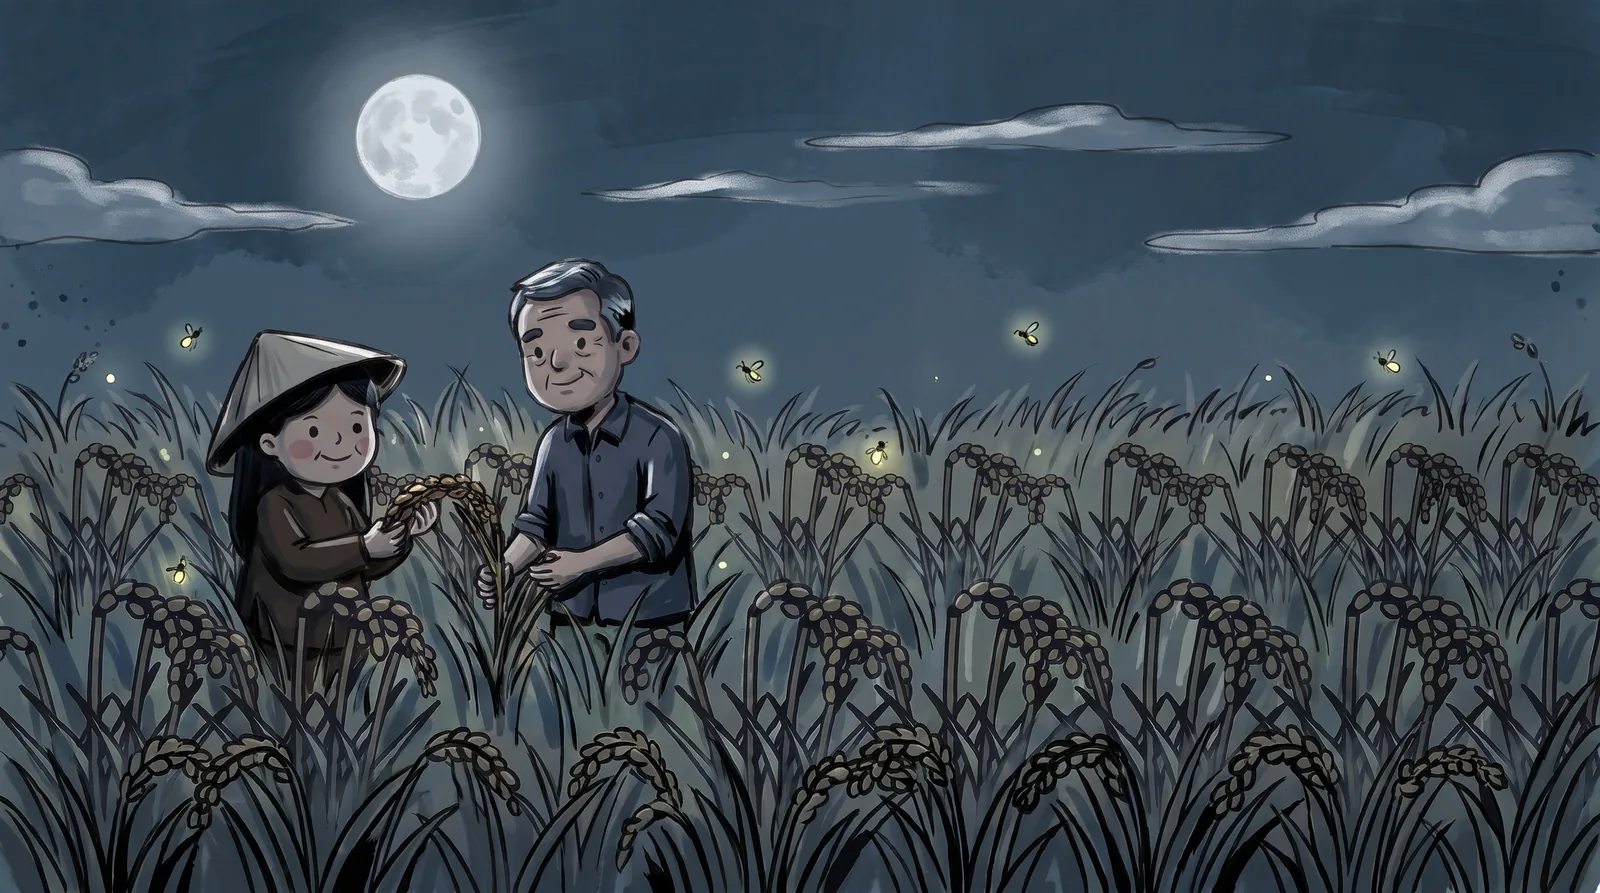
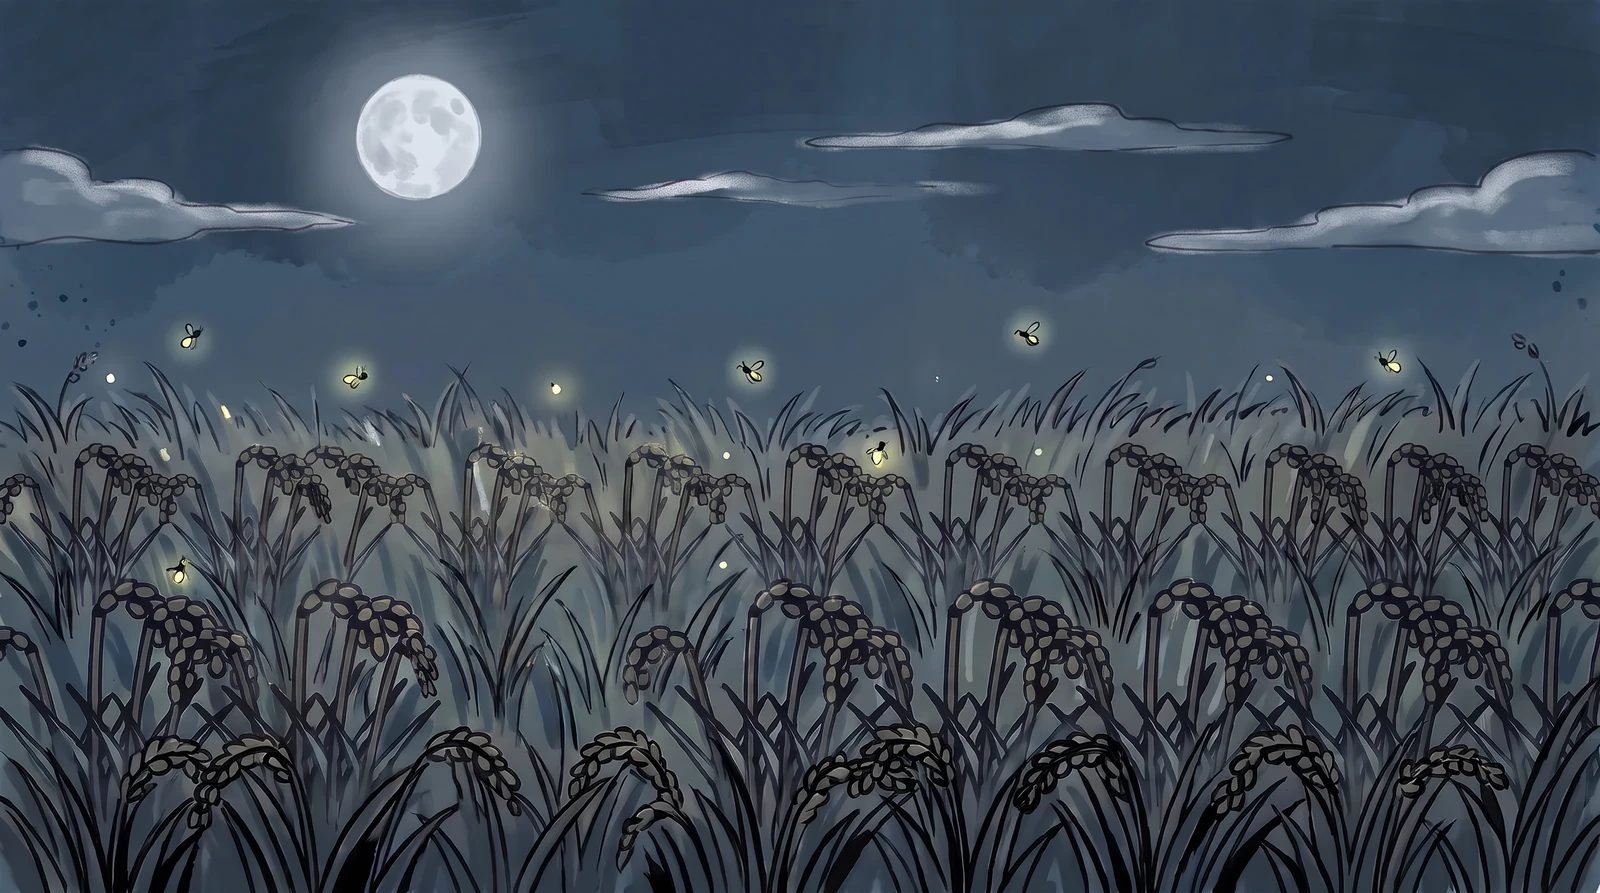
feat(web): the night of step 2 shows only the rice field
At night the two farmers have gone home, so the night picture has no people.
Edited from the approved night sketch with Nano Banana Pro; the edit prompt is
in brand/story/phac/prompts.json.

diff --git a/docs/decisions/0017-chuyen-dong-chuyen-hat-nep.md b/docs/decisions/0017-chuyen-dong-chuyen-hat-nep.md
@@ -11,7 +11,7 @@ Ngày: 2026-11-11. Người quyết định: chủ dự án.
 - Máy gặt và xe chở gạo chỉ rung hoặc quay bánh tại chỗ, không chạy ngang. Người trong tranh đứng yên.
 - Bước 2: lúa lớn dần từ lúa non (tranh mới vẽ bằng Nano Banana Pro, cùng bố cục) qua lúa xanh (đổi màu từ bản phác, làm trong trình duyệt) tới lúa chín vàng, qua nắng, mưa, gió, rồi sang đêm trăng. Giọt mưa có sẵn trong tranh chỉ hiện khi mây đã tới (lớp `rain` cắt theo từng giọt).
 - Sau khi xem bản đầu (2026-11-11), chủ dự án muốn chuyển động chạy liên tục: bước 2 lặp cả vòng ngày-đêm, guồng máy gặt quay liên tục như cánh quạt, bánh xe chở gạo quay đều tại chỗ. Các chặng trên con đường giãn ra: từ 768 px mỗi bước chồng lên bước trước 4rem thay vì 10rem (khoảng 340 px giữa hai chặng thay vì 250 px).
-- Góp ý thứ hai (2026-11-11): cảnh gặt chỉ guồng quay (bỏ rung máy, bụi thóc, chim); cảnh quay lại màn hình thì chạy lại đoạn mở đầu; hình chạy trên con đường đổi theo giai đoạn (hạt mầm, hạt thóc, hạt gạo, bát xôi) và đoạn đường đã qua đổi màu theo giai đoạn (xanh mạ, vàng thóc, nâu; không dùng trắng gạo vì trông như chưa đi qua); tranh cảnh trên web giảm từ 1200 × 675 xuống 960 × 540 (tổng 744 KB còn 460 KB).
+- Góp ý thứ hai (2026-11-11): cảnh gặt chỉ guồng quay (bỏ rung máy, bụi thóc, chim); cảnh quay lại màn hình thì chạy lại đoạn mở đầu; hình chạy trên con đường đổi theo giai đoạn (hạt mầm, hạt thóc, hạt gạo, bát xôi) và đoạn đường đã qua đổi màu theo giai đoạn (xanh mạ, vàng thóc, nâu; không dùng trắng gạo vì trông như chưa đi qua); tranh đêm bước 2 bỏ hai người (ban đêm hai ông bà đã về nghỉ; sửa bằng Nano Banana Pro, khoảng 0,13 USD); tranh cảnh trên web giảm từ 1200 × 675 xuống 960 × 540 (tổng 744 KB còn 460 KB).
 - Công cụ: `brand/tools/cut-story-layers.py` đọc `brand/story/layers.json` và ghi lớp vào `web/public/lop/`.
 - Xóa đường cũ: cảnh SVG tách lớp, script `story:build`, mã nhúng SVG, công cụ trace người `vectorize-pose.py`, các tư thế người và phần sửa tay của chúng.
 

diff --git a/docs/superpowers/specs/2026-11-11-chuyen-dong-chuyen-hat-nep-design.md b/docs/superpowers/specs/2026-11-11-chuyen-dong-chuyen-hat-nep-design.md
@@ -44,7 +44,7 @@ Khi làm, vị trí chính xác của từng vật được đo trên tranh gố
   - 8 tranh cảnh trên web, 960 × 540 (sau góp ý "page load hơi lâu", 2026-11-11: khung cảnh rộng tối đa 416 px nên 960 px vẫn nét trên màn hình tỉ lệ 2, nhẹ hơn khoảng 30 %);
   - mỗi lớp ra một file WebP có kênh trong suốt, trong `web/public/lop/`;
   - vị trí và kích thước của mọi lớp (theo phần trăm khung cảnh) ra `web/src/lib/story/scene-layers.json`.
-- **Tranh đêm bước 2:** `web/public/story/canh-2-nang-mua-gio-dem.webp` (960 × 540, như tranh ngày), xuất từ `brand/story/phac/2-nang-mua-gio-dem.webp`.
+- **Tranh đêm bước 2:** chỉ có đồng lúa dưới trăng, không có người: ban đêm hai ông bà đã về nghỉ (chủ dự án, 2026-11-11). Khi trời chuyển sang đêm, hai người mờ dần cùng lúc tranh đêm hiện lên. File `web/public/story/canh-2-nang-mua-gio-dem.webp` (960 × 540, như tranh ngày), xuất từ `brand/story/phac/2-nang-mua-gio-dem.webp`.
 - **Giới hạn dung lượng:** mỗi lớp dưới 40 KB; tổng các lớp của một cảnh dưới 120 KB. Tranh lúa non và tranh đêm của bước 2 tính riêng: mỗi tranh dưới 120 KB. Test kiểm tra.
 - **Bước 2 (chủ dự án chọn thêm, 2026-11-11):** lúa lớn dần: tranh lúa non mới (Nano Banana Pro, cùng bố cục) → lúa xanh → lúa chín vàng → đêm trăng. Lúa xanh được đổi màu từ tranh gốc ngay trong trình duyệt (`web/src/lib/story/green-rice.ts`), vì làm thành file thì nặng như chính tranh gốc (khoảng 150 KB). Việc đổi màu chia thành từng dải 60 hàng điểm ảnh, nghỉ giữa các dải, để không làm khựng chuyển động khác đang chạy (làm một lần thì chặn trang 50–80 ms). Giọt mưa có sẵn trong tranh được cắt theo từng giọt (mỗi giọt một hình tròn nhỏ) và che đi lúc đầu, rồi hiện ra khi mây đã tới; thêm vài giọt rơi vẽ bằng code. Như vậy không có mưa trước khi có mây.
 

diff --git a/docs/session/log/2026-11-06-may-cong-ty-link-chia-se.md b/docs/session/log/2026-11-06-may-cong-ty-link-chia-se.md
@@ -81,3 +81,4 @@
 - Kết quả đo: LCP không chậm. Lighthouse điện thoại 6 lần trên bản build ở máy: LCP 1,36–1,41 giây, luôn là chữ "Nếp Nhà". Điểm dao động 89–99 là do thời gian chặn luồng chính (TBT 83–428 ms), thay đổi theo tải của máy lúc đo. Trang nặng: 8 tranh cảnh tải ngay khi mở trang (trình duyệt tải trước ảnh `loading="lazy"` trong khoảng 2–3 màn hình), khoảng 390 KB.
 - Đã làm trên nhánh `feat/hanh-trinh-hat`: cảnh gặt chỉ guồng quay; cảnh chạy lại đoạn mở đầu khi quay lại; tranh cảnh 960 × 540 (744 KB còn 460 KB); hình chạy 4 giai đoạn, đường đổi màu theo giai đoạn, hình không còn mờ (nằm đúng điểm ảnh, không có lớp riêng).
 - Chủ dự án (ảnh chụp bước 8): "để đường đã đi màu trắng như vậy như chưa từng đi qua đó" → đoạn đường đã qua ở bước gạo và bát xôi không dùng màu trắng gạo; đổi sang màu nâu (`coat`).
+- Chủ dự án (ảnh tranh đêm bước 2): "tối thì 2 ông bà về nghỉ ngơi rồi nên để hình đồng lúa là được rồi" → tranh đêm bỏ hai người, chỉ còn đồng lúa dưới trăng (sửa bằng Nano Banana, giữ nguyên bố cục).

diff --git a/brand/story/phac/README.md b/brand/story/phac/README.md
@@ -9,7 +9,7 @@ Prompt và ảnh đầu vào của từng ảnh nằm trong `prompts.json`.
 |---|---|
 | `1-cay-ma.webp` | 1. Cấy mạ |
 | `2-nang-mua-gio-ngay.webp` | 2. Nắng, mưa, gió (ngày): đồng lúa dày, ba mẹ chăm lúa |
-| `2-nang-mua-gio-dem.webp` | 2. Cùng cảnh, đêm trăng (cùng bố cục, để chuyển ngày sang đêm) |
+| `2-nang-mua-gio-dem.webp` | 2. Cùng cảnh, đêm trăng (cùng bố cục, để chuyển ngày sang đêm). Không có người: ban đêm hai ông bà đã về nghỉ (sửa ngày 2026-11-11, chủ dự án chọn) |
 | `2-nang-mua-gio-non.webp` | 2. Cùng cảnh, lúa non xanh (cùng bố cục, để lúa lớn dần; vẽ ngày 2026-11-11, chủ dự án chọn) |
 | `3-gat.webp` | 3. Gặt lúa |
 | `4-say.webp` | 4. Sấy thóc: quạt thấp, ba đứng sau quạt cho than vào lò |
